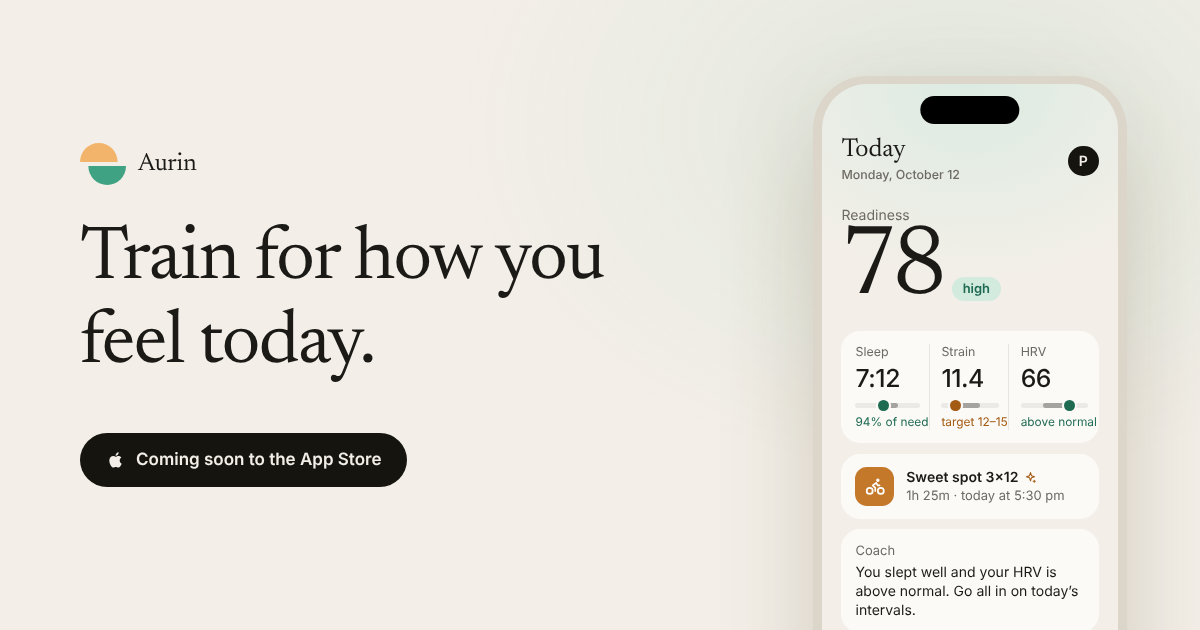
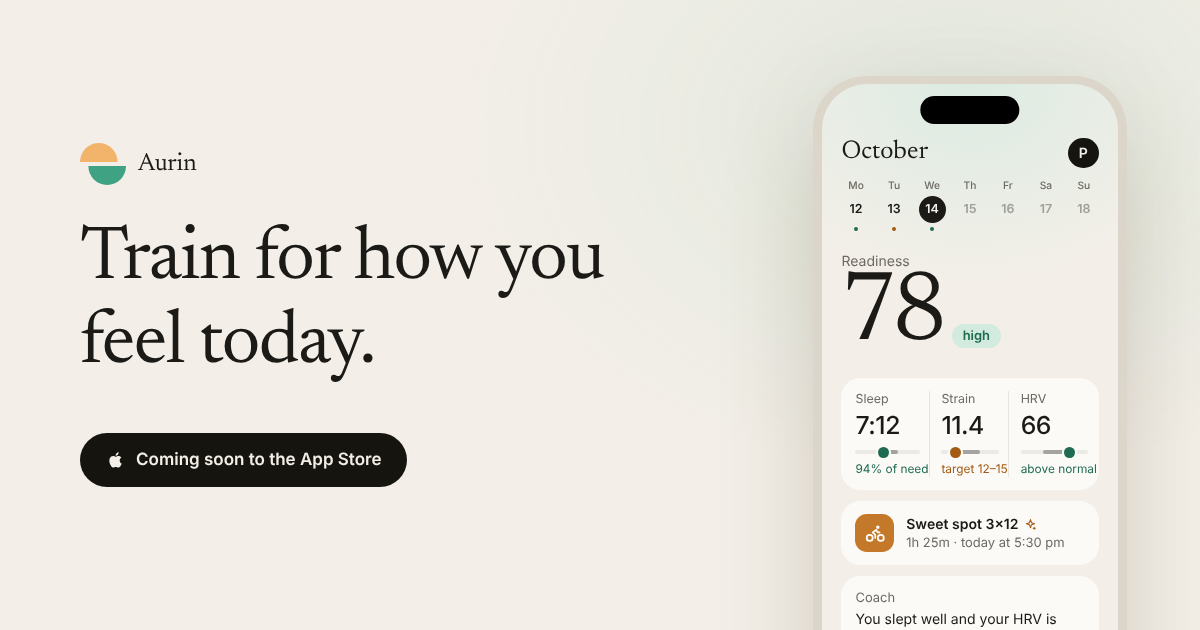
Dnes: month and week strip (B3); the athlete's status as the weather card's first row
The day title with arrows becomes the month and a Monday–Sunday strip:
a dot in the readiness colour under each day up to the shown one, today
filled, an earlier day picked with a ring in its colour, a tap opens the
day (GET /app/api/today gains week from readinessWeek). The status leaves
the corner pill: dot and word, then until when and an injury's note, no
frame. The overview's phone and share images follow.

Claude-Session: https://claude.ai/code/session_015A9gAdGSdQwjhvuRnNuhQS

Changed region(s): [[0.6783, 0.2111, 0.925, 0.9952], [0.8942, 0.2111, 0.925, 0.3016]]

diff --git a/ios-native/Loadwise/Screens/TodayView.swift b/ios-native/Loadwise/Screens/TodayView.swift
@@ -84,15 +84,29 @@ struct TodayContent: View {
 
     /// Everything above the widgets: the day, readiness, weather and the coach.
     @ViewBuilder private var header: some View {
+        // B3 (Petr, 2026-10-15): the month as the title and the week below it.
         HStack(spacing: 10) {
-            DayNavigator(date: today.date)
+            Text(verbatim: Fmt.monthTitle(today.date))
+                .font(Typo.sentence(30, relativeTo: .title))
+                .foregroundStyle(Palette.ink)
+                .lineLimit(1).minimumScaleFactor(0.7)
+                .accessibilityAddTraits(.isHeader)
             Spacer()
+            if model.selectedDate != nil {
+                Button { Task { await model.showToday() } } label: {
+                    Label("Dnes", systemImage: "arrow.uturn.backward").font(.footnote.weight(.semibold)).foregroundStyle(Palette.ink)
+                        .padding(.horizontal, 10).frame(height: 30)
+                        .overlay(Capsule().stroke(Palette.ink.opacity(0.2), lineWidth: 1))
+                }
+                .buttonStyle(.plain)
+            }
             CircleButton(systemImage: "square.and.arrow.up", label: "Sdílet", action: openShare)
             CircleButton(systemImage: "bubble.left.and.text.bubble.right", label: L10n.tr("Kouč"), action: openCoach)
             Button(action: openSettings) { AvatarView(size: 36) }
                 .buttonStyle(.plain)
             .accessibilityLabel("Profil a nastavení")
         }
+        WeekStrip(date: today.date, week: today.week).padding(.top, 14)
 
         if model.selectedDate == nil && !model.demo {
             DataAgePill()
@@ -222,6 +236,69 @@ struct DataAgePill: View {
         day.timeZone = calendar.timeZone
         day.dateFormat = L10n.isEnglish ? "MMM d" : "d. M."
         return L10n.f("data z %@", day.string(from: last) + " " + time)
+    }
+}
+
+/// Today's week, Monday to Sunday: a dot in the readiness colour under every
+/// day up to the shown one, today filled, an earlier day picked with a ring in
+/// its colour. A tap opens that day; later days are faint and do nothing.
+struct WeekStrip: View {
+    @Environment(AppModel.self) private var model
+    let date: String
+    let week: [TodaySnapshot.WeekDay]?
+
+    private var today: String { AppModel.localDate(Date()) }
+
+    /// The server's week, or Monday to Sunday without zones (an older server).
+    private var days: [TodaySnapshot.WeekDay] {
+        if let week, week.count == 7 { return week }
+        var calendar = Calendar(identifier: .gregorian)
+        calendar.timeZone = TimeZone(identifier: "UTC")!
+        let parser = DateFormatter()
+        parser.locale = Locale(identifier: "en_US_POSIX")
+        parser.timeZone = calendar.timeZone
+        parser.dateFormat = "yyyy-MM-dd"
+        let weekday = parser.date(from: date).map { (calendar.component(.weekday, from: $0) + 5) % 7 } ?? 0
+        let monday = AppModel.shift(date, by: -weekday) ?? date
+        return (0..<7).map { TodaySnapshot.WeekDay(date: AppModel.shift(monday, by: $0) ?? monday, zone: nil) }
+    }
+
+    var body: some View {
+        HStack(spacing: 0) {
+            ForEach(days, id: \.date) { day in
+                Button { Task { await model.showDate(day.date) } } label: { cell(day) }
+                    .buttonStyle(.plain)
+                    .disabled(day.date > today || model.demo || model.loading)
+                    .frame(maxWidth: .infinity)
+            }
+        }
+        .padding(.horizontal, -6)
+    }
+
+    private func cell(_ day: TodaySnapshot.WeekDay) -> some View {
+        let isToday = day.date == today, selected = day.date == date, future = day.date > today
+        let color = ReadinessText.pill(day.zone)?.1
+        return VStack(spacing: 5) {
+            Text(verbatim: Fmt.weekdayShort(day.date)).font(Typo.tiny.weight(.medium)).foregroundStyle(Palette.muted)
+            ZStack {
+                if isToday && selected {
+                    Circle().fill(Palette.ink)
+                } else if selected {
+                    Circle().stroke(color ?? Palette.ink.opacity(0.5), lineWidth: 2)
+                } else if isToday {
+                    Circle().stroke(Palette.ink.opacity(0.3), lineWidth: 1.5)
+                }
+                Text(verbatim: Fmt.dayNumber(day.date))
+                    .font(.system(size: 15, weight: .semibold))
+                    .foregroundStyle(isToday && selected ? Palette.background : selected ? (color ?? Palette.ink) : future ? Palette.faint : Palette.ink)
+            }
+            .frame(width: 38, height: 38)
+            Circle().fill(color ?? .clear).frame(width: 5, height: 5)
+        }
+        .contentShape(Rectangle())
+        .accessibilityElement(children: .ignore)
+        .accessibilityLabel(Fmt.dayMonth(day.date))
+        .accessibilityAddTraits(selected ? .isSelected : [])
     }
 }
 

diff --git a/src/site-pages.js b/src/site-pages.js
@@ -60,6 +60,12 @@ p{margin:0}
 .screen .day small{display:block;margin-top:3px;font-size:11.5px;font-weight:500;color:var(--muted)}
 .screen .me{width:28px;height:28px;border-radius:50%;background:var(--button);color:var(--on-button);display:grid;place-items:center;font-size:13px}
 .screen .lbl{margin-top:20px;color:var(--muted)}
+.wk{display:grid;grid-template-columns:repeat(7,1fr);margin:10px -4px 0;text-align:center}
+.wk small{display:block;font-size:9.5px;font-weight:500;color:var(--muted)}
+.wk b{display:grid;place-items:center;width:25px;height:25px;margin:3px auto 0;border-radius:50%;font-size:11.5px;font-weight:600}
+.wk .on b{background:var(--text);color:var(--bg)}.wk .fut b{color:var(--muted);opacity:.6}
+.wk i{display:block;width:4px;height:4px;margin:3px auto 0;border-radius:50%}
+.wk i.g{background:var(--green)}.wk i.a{background:var(--amber)}
 .screen .ready{display:flex;align-items:flex-end;gap:8px}
 .screen .ready b{font:400 92px/.9 Newsreader,Georgia,serif;letter-spacing:-.04em}
 .pill{display:inline-flex;align-items:center;gap:5px;padding:3px 10px;border-radius:999px;font-size:12px;font-weight:600}
@@ -328,7 +334,8 @@ export function overviewPage(request) {
   const days = t(['Po', 'Út', 'St', 'Čt', 'Pá', 'So', 'Ne'], ['Mon', 'Tue', 'Wed', 'Thu', 'Fri', 'Sat', 'Sun']);
   const short = t(['P', 'Ú', 'S', 'Č', 'P', 'S', 'N'], ['M', 'T', 'W', 'T', 'F', 'S', 'S']);
   const today = `<div class="phone" role="img" aria-label="${t('Aurin v telefonu: obrazovka Dnes s připraveností, spánkem, námahou, HRV a dnešním tréninkem', 'Aurin on a phone: the Today screen with readiness, sleep, strain, HRV and today’s workout')}"><div class="screen" aria-hidden="true">
-<div class="top"><span class="day"><b>${t('Dnes', 'Today')}</b><small>${t('pondělí 12. října', 'Monday, October 12')}</small></span><span class="me">P</span></div>
+<div class="top"><span class="day"><b>${t('Říjen', 'October')}</b></span><span class="me">P</span></div>
+<div class="wk"><span class=""><small>${t('Po', 'Mo')}</small><b>12</b><i class="g"></i></span><span class=""><small>${t('Út', 'Tu')}</small><b>13</b><i class="a"></i></span><span class="on"><small>${t('St', 'We')}</small><b>14</b><i class="g"></i></span><span class="fut"><small>${t('Čt', 'Th')}</small><b>15</b><i class=""></i></span><span class="fut"><small>${t('Pá', 'Fr')}</small><b>16</b><i class=""></i></span><span class="fut"><small>${t('So', 'Sa')}</small><b>17</b><i class=""></i></span><span class="fut"><small>${t('Ne', 'Su')}</small><b>18</b><i class=""></i></span></div>
 <div class="lbl">${t('Připravenost', 'Readiness')}</div>
 <div class="ready"><b>78</b><span class="pill good">${t('vysoká', 'high')}</span></div>
 <div class="pc cells">

diff --git a/ios-native/Loadwise/Screens/WeatherViews.swift b/ios-native/Loadwise/Screens/WeatherViews.swift
@@ -76,32 +76,32 @@ enum WeatherText {
     static func indoor(_ advice: TodaySnapshot.Advice?) -> Bool { advice?.environment == "indoor" }
 }
 
-/// Today's card above the key numbers: the place with the location arrow and
-/// the day's temperatures, the athlete's status in the corner and a few
-/// hours of the forecast.
+/// Today's card above the key numbers: the athlete's status as its first
+/// row, then the place with the location arrow and the day's temperatures
+/// and a few hours of the forecast.
 struct TodayWeatherCard: View {
     let weather: TodaySnapshot.Weather?
     @State private var open = false
 
     var body: some View {
         Card {
-            HStack(alignment: .center) {
-                Button { open = true } label: {
-                    HStack(spacing: 5) {
-                        Image(systemName: "location.fill").font(.system(size: 10, weight: .semibold)).foregroundStyle(Palette.blue)
-                        if let weather {
-                            Text(verbatim: (weather.place ?? L10n.tr("Počasí")) + " · " + WeatherText.range(weather))
-                                .font(Typo.caption).foregroundStyle(Palette.muted).lineLimit(1)
-                        } else {
-                            Text("Nastavit polohu pro počasí").font(Typo.caption.weight(.semibold)).foregroundStyle(Palette.ink).lineLimit(1)
-                        }
+            // The athlete's status first, always visible (Petr, 2026-10-15: no frame).
+            AthleteStatusRow()
+            Divider().overlay(Palette.hairline)
+            Button { open = true } label: {
+                HStack(spacing: 5) {
+                    Image(systemName: "location.fill").font(.system(size: 10, weight: .semibold)).foregroundStyle(Palette.blue)
+                    if let weather {
+                        Text(verbatim: (weather.place ?? L10n.tr("Počasí")) + " · " + WeatherText.range(weather))
+                            .font(Typo.caption).foregroundStyle(Palette.muted).lineLimit(1)
+                    } else {
+                        Text("Nastavit polohu pro počasí").font(Typo.caption.weight(.semibold)).foregroundStyle(Palette.ink).lineLimit(1)
                     }
-                    .contentShape(Rectangle())
+                    Spacer(minLength: 0)
                 }
-                .buttonStyle(.plain)
-                Spacer(minLength: 8)
-                AthleteStatusPill(compact: true)
+                .contentShape(Rectangle())
             }
+            .buttonStyle(.plain)
             if let hours = weather?.hours, !hours.isEmpty {
                 Button { open = true } label: {
                     HStack(spacing: 0) {

diff --git a/src/app-today.js b/src/app-today.js
@@ -56,6 +56,20 @@ export function dayStrain(rows, date) {
 // 0.5 per half hour (at most 2), and a yellow morning caps it at 12, a red one
 // at 6, as WHOOP's strain target follows recovery. The morning check-in is in
 // the readiness already. ±1.5 around the middle.
+// The week strip above Dnes (Mon–Sun of the day's week): each day up to the
+// shown one with its readiness zone ("green", "yellow", "red", null without
+// a number); later days have no zone.
+export function readinessWeek({ date, readiness, sessions = [], profile = null }) {
+  const weekday = (new Date(date + "T12:00:00Z").getUTCDay() + 6) % 7;
+  const monday = shift(date, -weekday);
+  return Array.from({ length: 7 }, (_, i) => {
+    const day = shift(monday, i);
+    if (day > date) return { date: day, zone: null };
+    const r = day === date ? readiness : readinessFor({ date: day, rows: readiness.rows, sessions, profile });
+    return { date: day, zone: r.score == null ? null : r.zone || null };
+  });
+}
+
 export function strainTarget({ readiness = null, zone = null, planned = null, debt = 0, rest = false } = {}) {
   let mid = readiness != null ? 4 + 0.12 * readiness : 10;
   if (planned > 0) mid = (mid + planned) / 2;
@@ -119,6 +133,7 @@ export function buildToday({ date, hour = null, daily = {}, health = {}, fitness
   // readiness the coaches use (readiness.js); the morning check-in can lower it.
   const readiness = readinessFor({ date, google, intervals: fitness.wellness, sessions, profile, checkin });
   const rows = readiness.rows, night = readiness.night, need = readiness.need.need;
+  const week = readinessWeek({ date, readiness, sessions, profile });
   const hrv = readiness.components?.hrv || null;
 
   // The coming night: the need from the strain of the day before it and the
@@ -254,6 +269,7 @@ export function buildToday({ date, hour = null, daily = {}, health = {}, fitness
     // provisional: the baseline is carried over from another source until the
     // new one has 14 days of its own (recovery-model.js sourceBaseline).
     readiness: { score: readiness.score, zone: readiness.zone, missing: readiness.missing || [], flags: readiness.flags || [], provisional: !!readiness.provisional },
+    week,
     // The morning check-in: fresh, normal, tired, sick or null (not answered).
     checkin: checkin || null,
     trainingPlan: trainingPlan || null,

diff --git a/ios-native/Loadwise/Screens/AthleteStatusView.swift b/ios-native/Loadwise/Screens/AthleteStatusView.swift
@@ -89,6 +89,42 @@ struct AthleteStatusPill: View {
     }
 }
 
+/// The first row of Today's weather card: a dot and the state in its colour,
+/// then for a state other than Aktivní how long it lasts ("do 17. 10.",
+/// "do změny") and an injury's note. No frame; a tap changes it.
+struct AthleteStatusRow: View {
+    @Environment(AppModel.self) private var model
+    @State private var editing = false
+
+    var body: some View {
+        let status = model.athleteStatus ?? .active
+        let kind = AthleteStatusKind.from(status.status)
+        Button { editing = true } label: {
+            HStack(spacing: 8) {
+                Circle().fill(kind.color).frame(width: 8, height: 8)
+                Text(kind.title).font(.subheadline.weight(.semibold)).foregroundStyle(kind.color)
+                if let detail = Self.detail(status, kind) {
+                    Text(verbatim: "· " + detail).font(.subheadline).foregroundStyle(Palette.muted).lineLimit(1)
+                }
+                Spacer(minLength: 8)
+                Image(systemName: "chevron.right").font(.system(size: 12, weight: .semibold)).foregroundStyle(Palette.faint)
+            }
+            .contentShape(Rectangle())
+        }
+        .buttonStyle(.plain)
+        .accessibilityLabel(L10n.f("Stav sportovce: %@, %@", kind.title, AthleteStatusSheet.untilText(status.statusUntil)))
+        .sheet(isPresented: $editing) { AthleteStatusSheet(current: status) }
+    }
+
+    /// "koleno · do 20. 10.", "do změny"; nil while active.
+    static func detail(_ status: AthleteStatus, _ kind: AthleteStatusKind) -> String? {
+        guard kind != .active else { return nil }
+        let until = status.statusUntil.map { L10n.f("do %@", Fmt.dayMonth(ISODay.shift($0, -1))) } ?? L10n.tr("do změny")
+        let note = kind == .injured ? status.note?.trimmingCharacters(in: .whitespacesAndNewlines).nilIfBlank : nil
+        return [note, until].compactMap { $0 }.joined(separator: " · ")
+    }
+}
+
 struct AthleteStatusSheet: View {
     @Environment(AppModel.self) private var model
     @Environment(\.dismiss) private var dismiss

diff --git a/ios-native/Loadwise/Design/Format.swift b/ios-native/Loadwise/Design/Format.swift
@@ -109,6 +109,23 @@ enum Fmt {
     }
 
     /// Two-letter Czech weekday: "Po", "Út", "St", "Čt", "Pá", "So", "Ne".
+    /// "Říjen", "October": the month of Today's week strip.
+    static func monthTitle(_ isoDate: String) -> String {
+        guard let date = parse(isoDate) else { return "" }
+        let out = DateFormatter()
+        out.locale = locale
+        out.timeZone = utc
+        out.dateFormat = "LLLL"
+        let text = out.string(from: date)
+        return text.prefix(1).uppercased(with: locale) + text.dropFirst()
+    }
+
+    /// "14": the day of the month.
+    static func dayNumber(_ isoDate: String) -> String {
+        guard let day = Int(isoDate.suffix(2)) else { return "" }
+        return String(day)
+    }
+
     static func weekdayShort(_ isoDate: String) -> String {
         guard let date = parse(isoDate) else { return "" }
         let names = L10n.isEnglish ? ["Su", "Mo", "Tu", "We", "Th", "Fr", "Sa"] : ["Ne", "Po", "Út", "St", "Čt", "Pá", "So"]

diff --git a/ios-native/Loadwise/Data/Models.swift b/ios-native/Loadwise/Data/Models.swift
@@ -26,6 +26,15 @@ struct TodaySnapshot: Decodable, Equatable {
     let trainingPlan: PlanLine?
     /// Cycle tracking, nil when off (Data/CycleModels.swift).
     var cycle: TodayCycle? = nil
+    /// The week strip above Dnes: Monday to Sunday of the day's week, each
+    /// day up to it with its readiness zone (src/app-today.js readinessWeek).
+    var week: [WeekDay]? = nil
+
+    struct WeekDay: Decodable, Equatable {
+        let date: String
+        /// "green", "yellow", "red"; nil without a readiness or after the day.
+        let zone: String?
+    }
 
     struct PlanLine: Decodable, Equatable {
         let name: String

diff --git a/ios-native/Loadwise/App/AppModel.swift b/ios-native/Loadwise/App/AppModel.swift
@@ -1018,6 +1018,15 @@ final class AppModel {
         await refreshDay()
     }
 
+    /// A day picked in Today's week strip; today or earlier.
+    func showDate(_ date: String) async {
+        let todayDate = Self.localDate(Date())
+        guard !demo, date <= todayDate, date != (selectedDate ?? todayDate) else { return }
+        selectedDate = date == todayDate ? nil : date
+        showSaved(selectedDate)
+        await refreshDay()
+    }
+
     func showToday() async {
         guard selectedDate != nil else { return }
         selectedDate = nil
